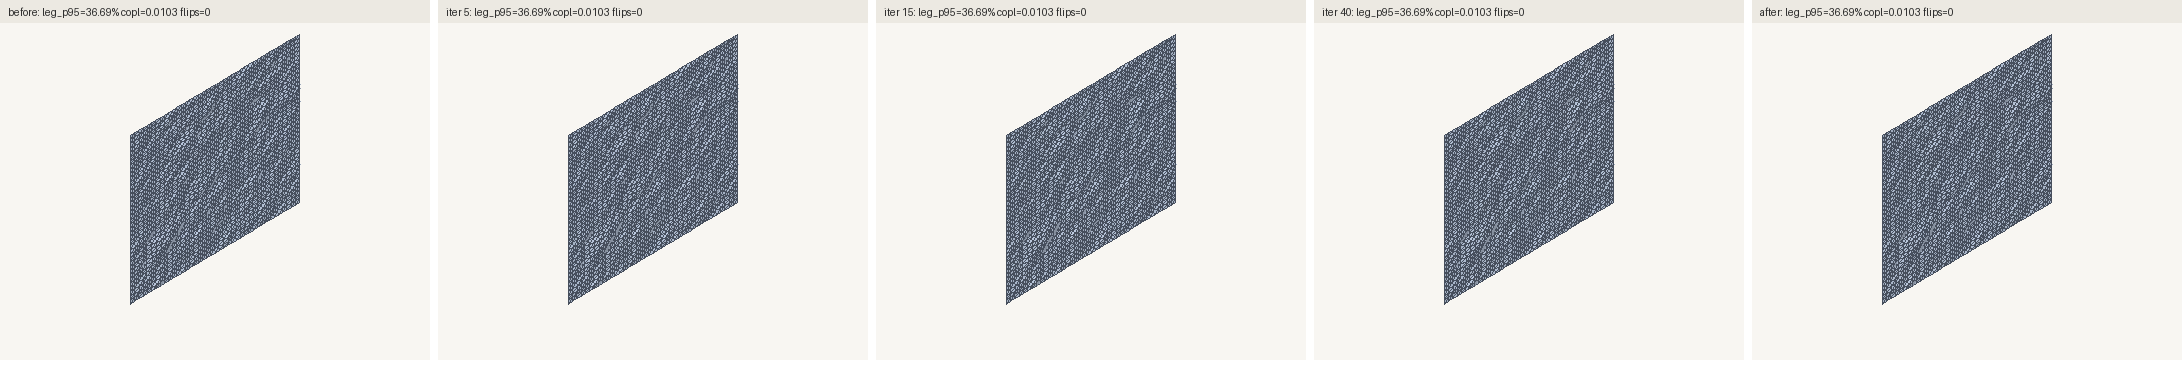
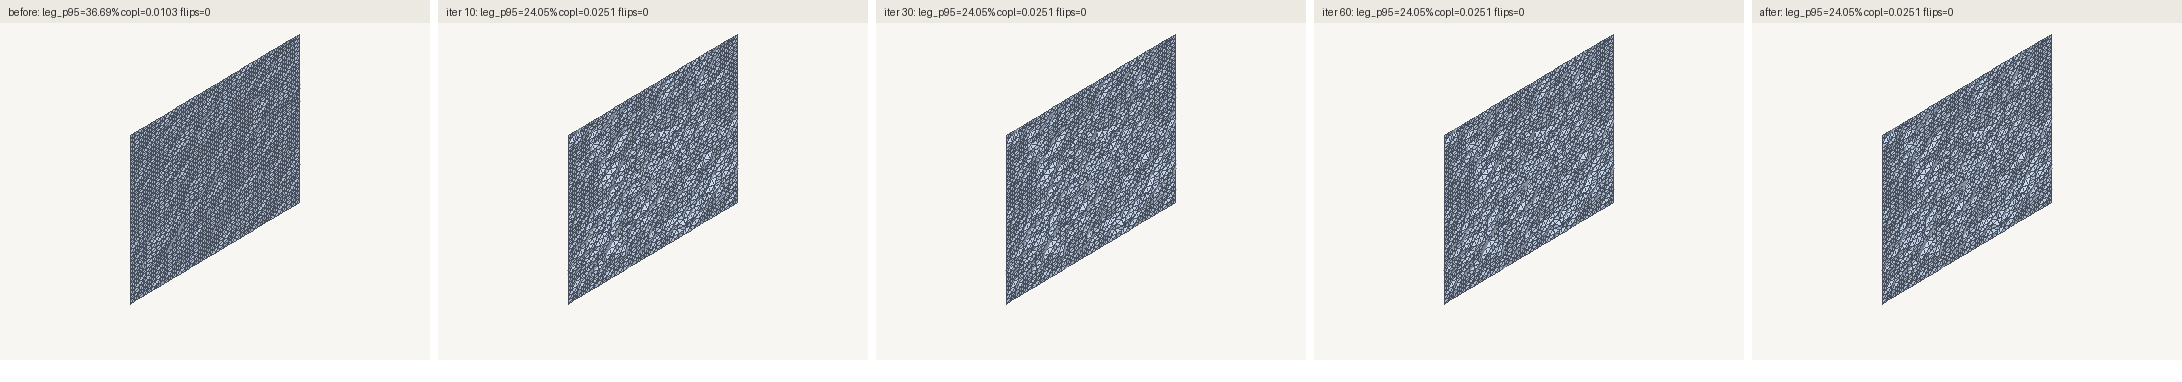
fix(E0005): correct free-variable indexing in FD harness (root cause was the test, not the solver); iso gradient sign fix applied; process render

diff --git a/experiments/scripts/E0004_vectorized_assembly.py b/experiments/scripts/E0004_vectorized_assembly.py
@@ -176,7 +176,7 @@ def residuals_vec(mesh, V, w, st=None):
         wi = st["wi"] / (mesh.scale() ** 2)
         add(wi * (np.einsum("ij,ij->i", ca, ca) - np.einsum("ij,ij->i", cb, cb)),
             np.repeat(st["rows_iso"], 9), st["t_cols"].ravel(),
-            np.concatenate([2.0 * wi * ca, -2.0 * wi * cb, 2.0 * wi * (ca - cb)], axis=1).ravel())
+            np.concatenate([-2.0 * wi * ca, 2.0 * wi * cb, 2.0 * wi * (ca - cb)], axis=1).ravel())
     if st["n_area"]:
         Aq = core.face_areas(V, q) if mq else np.zeros(0)
         At = core.face_areas(V, t) if mt else np.zeros(0)

diff --git a/experiments/scripts/E0002_regularization_prototype.py b/experiments/scripts/E0002_regularization_prototype.py
@@ -338,8 +338,8 @@ def residuals(mesh, V, w, with_jac=True):
             e = []
             for k in range(3):
                 e += [(0, 3 * ic + k, 2.0 * wi * (ca[k] - cb[k])),
-                      (0, 3 * ib + k, -2.0 * wi * cb[k]),
-                      (0, 3 * ia + k, 2.0 * wi * ca[k])]
+                      (0, 3 * ib + k, 2.0 * wi * cb[k]),
+                      (0, 3 * ia + k, -2.0 * wi * ca[k])]
             push(rv, e)
     # 全局面积项
     if w.get("area", 0.0) > 0 and (len(mesh.quads) or len(mesh.tris)):
